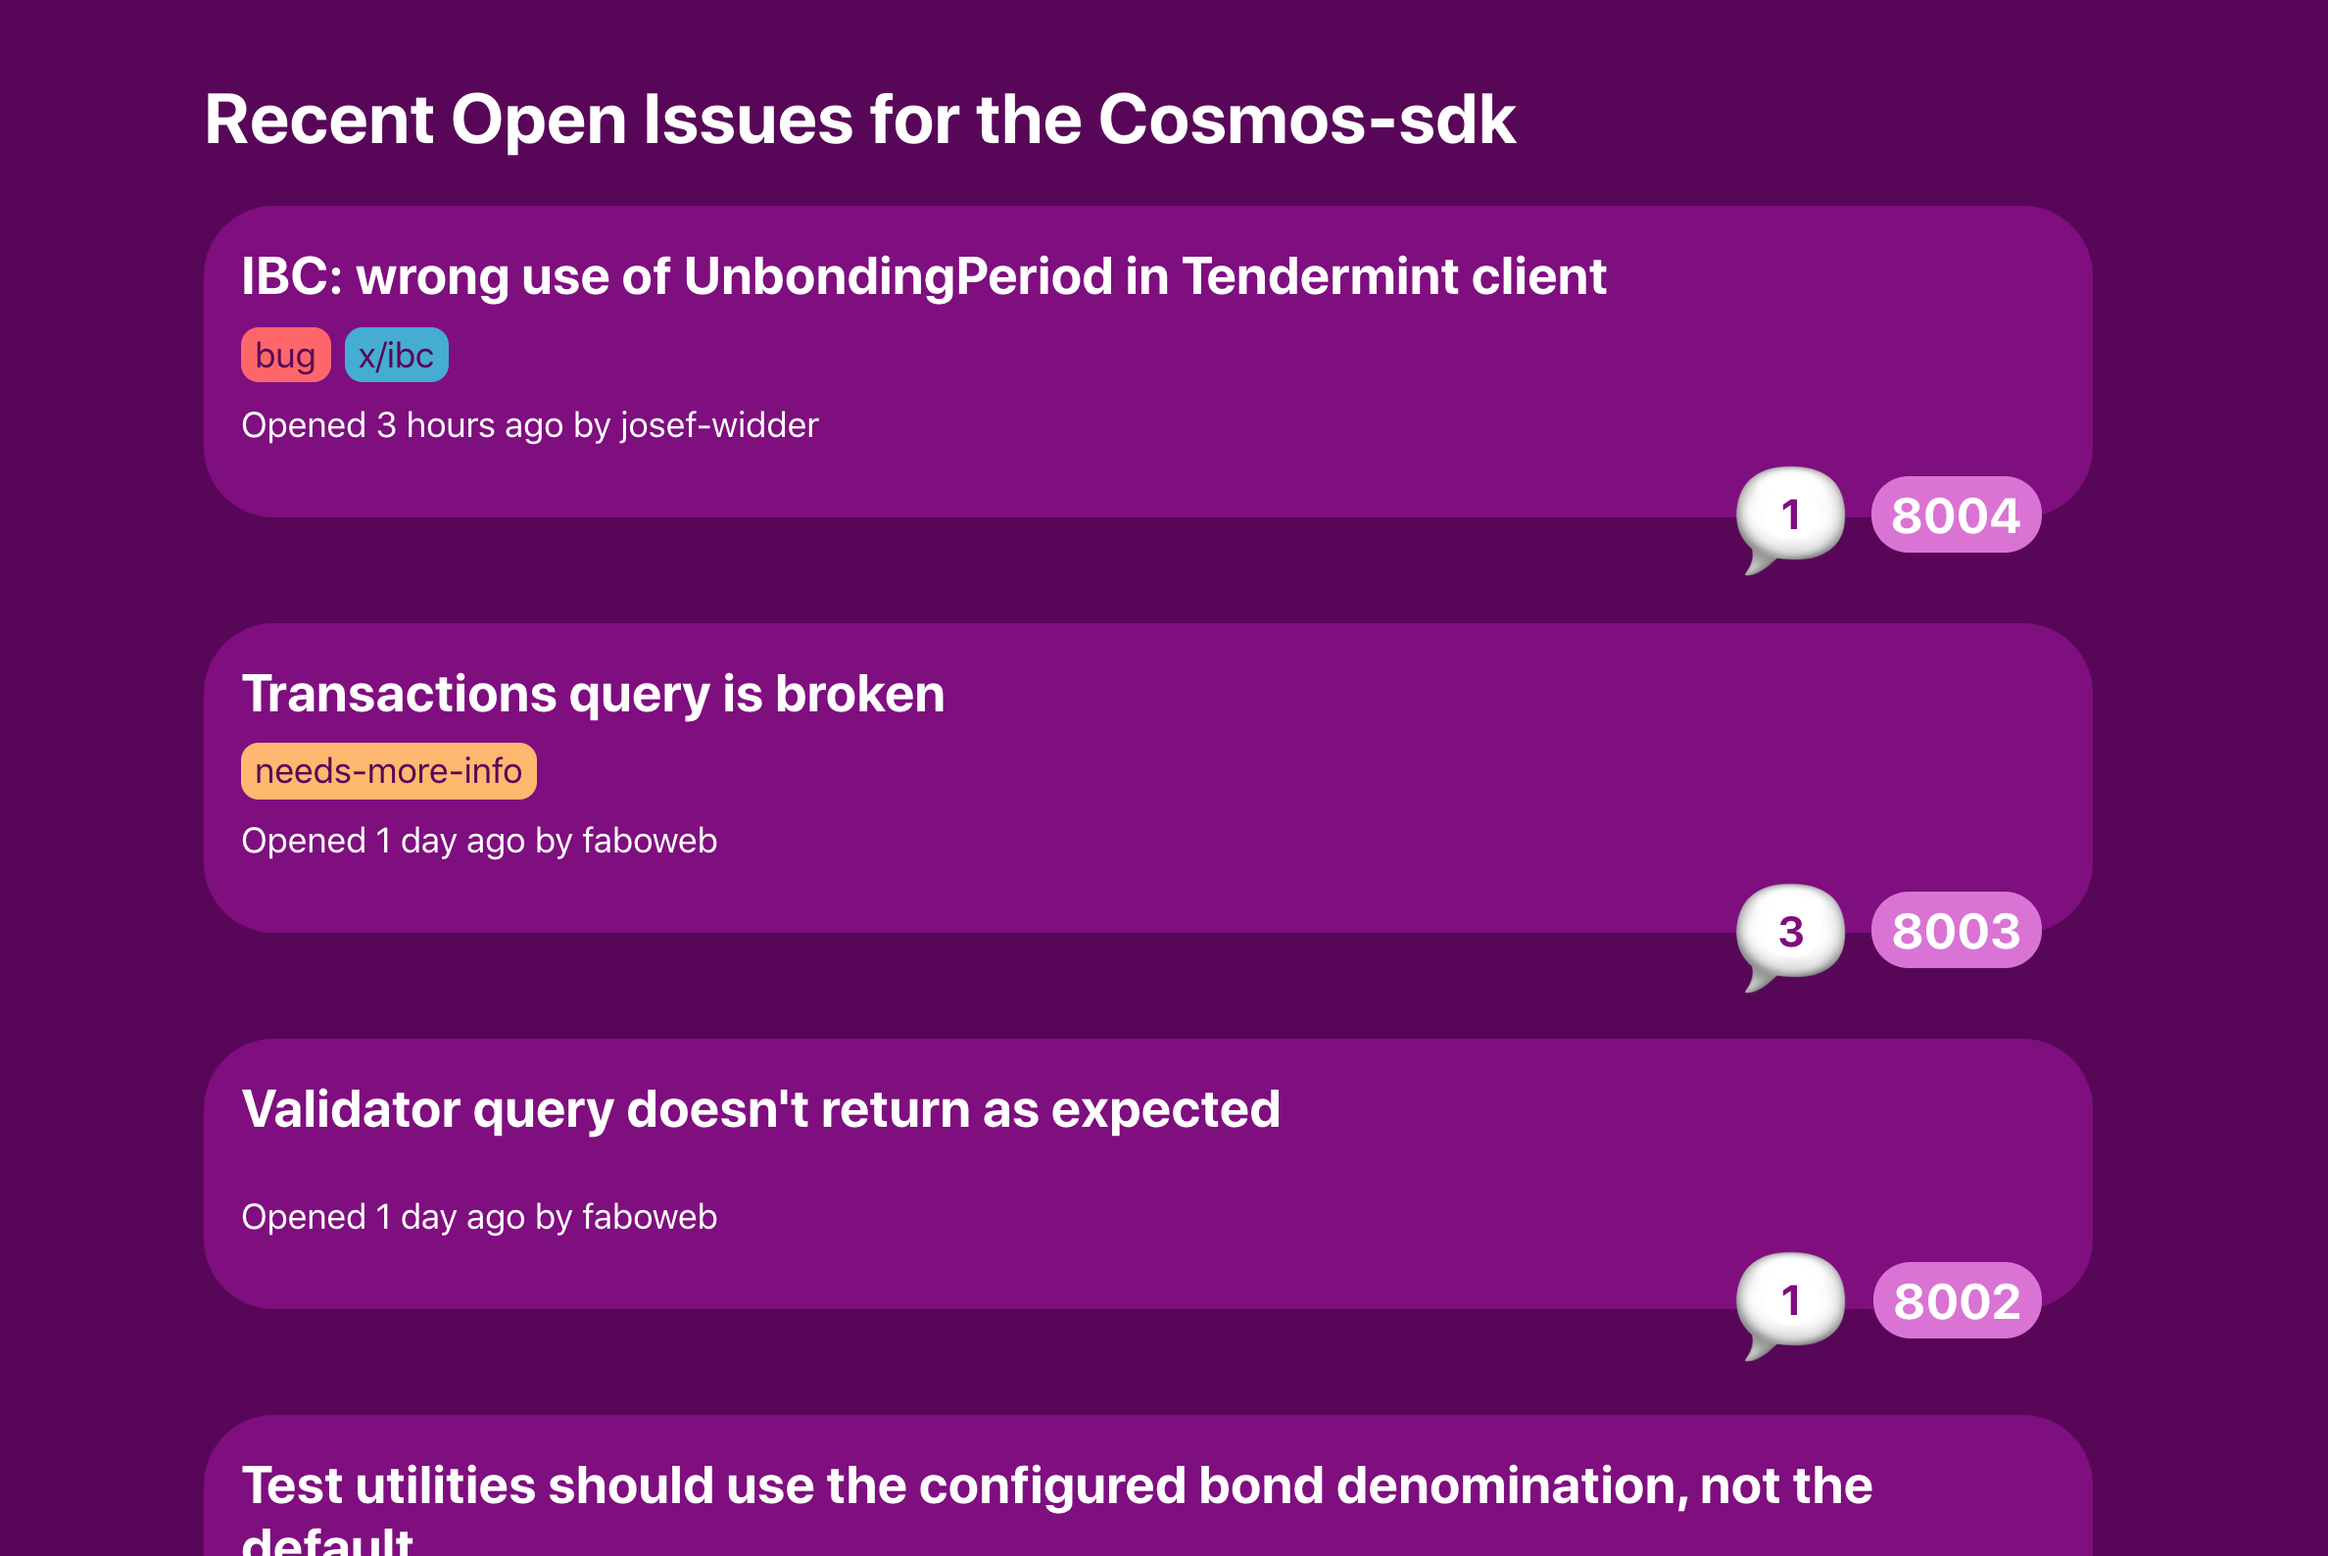
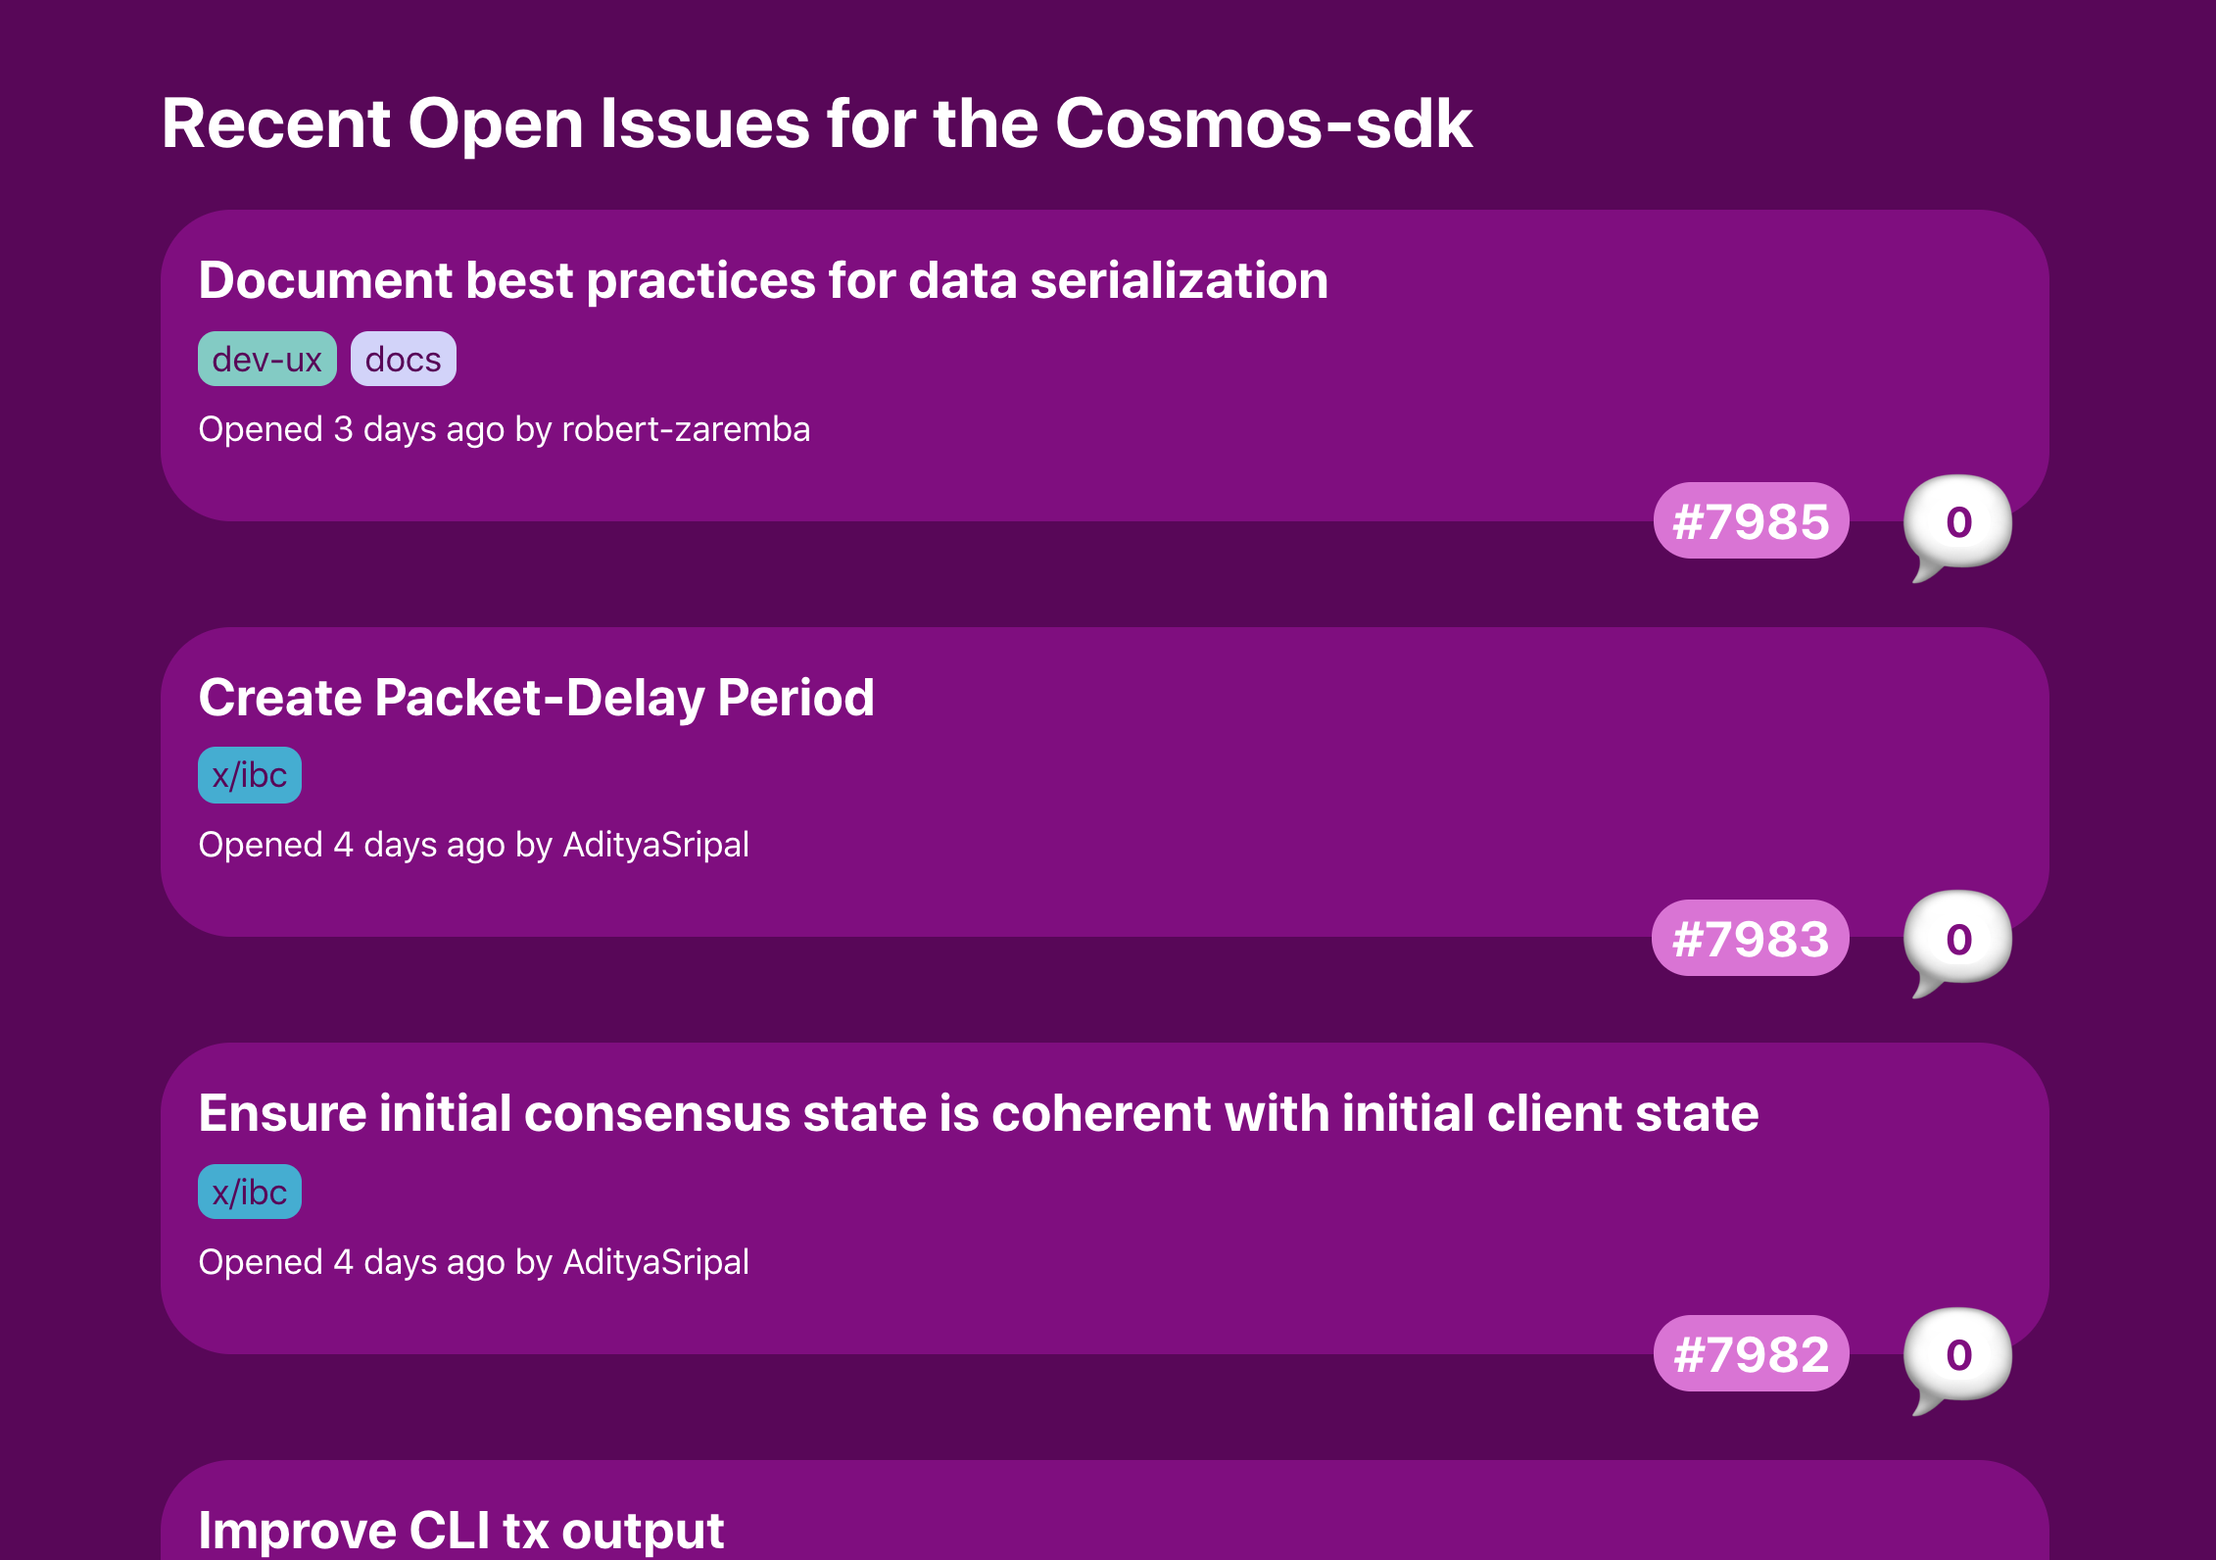
little style and readme update

diff --git a/src/components/IssueList/Issue.tsx b/src/components/IssueList/Issue.tsx
@@ -9,7 +9,7 @@ const Issue = (issue: Issue) =>
     <a href={issue.node.url}>
       <h2>{issue.node.title}</h2>
       <div className='number'>
-        <p>{issue.node.number}</p>
+        <p>#{issue.node.number}</p>
       </div>
       <IssueLabels {...issue.node.labels} />
       <IssueAge issueTimestamp={issue.node.createdAt} issueAuthor={issue.node.author.login} />
@@ -29,8 +29,8 @@ const Issue = (issue: Issue) =>
           }
           .number {
             position: absolute;
-            bottom: -12%;
-            right: 1em;
+            bottom: -13%;
+            right: 4em;
             background: orchid;
             font-size: 1.4em; 
             font-weight: bold; 

diff --git a/src/components/IssueList/IssueCommentCount.tsx b/src/components/IssueList/IssueCommentCount.tsx
@@ -7,8 +7,8 @@ const IssueCommentCount = ({issueCommentCount}: {issueCommentCount: number}) =>
     <style jsx>
         {`
           .count-parent {
-            bottom: -17%;
-            right: 7em;
+            bottom: -18%;
+            right: 1em;
             position: absolute;
             width: 3em;
             height: 3em;

diff --git a/README.md b/README.md
@@ -3,10 +3,11 @@ This repo is a little test app for fetching and displaying github issues for the
 
 It uses [Apollo](https://www.apollographql.com/docs/), [Graphql](https://graphql.org/), [Typescript](https://www.typescriptlang.org/docs) and React.
 
+How it should look:
 <img src="demo-img.png" width="500" />
 
 ## Getting Started
-Clone the repo and install the dependencies with with `npm install`. In order to query github's api, you will need to [create an access token with your account](https://github.com/settings/tokens) and save it as the environment variable `REACT_APP_GH_TOKEN` in a `.env` file.
+Clone the repo and install the dependencies with with `npm install`. In order to query github's api, you will need to [create an access token with your account](https://github.com/settings/tokens) and save it as the environment variable `REACT_APP_GH_TOKEN` in a `.env` file. Feel free to use this dummy token `b2794c4164de13171cb08b317e0e9f0d830d2677`.
 
 ### 📯SECURITY NOTE📯 
 Do not enable any permissions on the token you create, since your token will be exposed if deployed to a publicly accessible site. Also since we are querying a public repo, no permissions are necessary.
